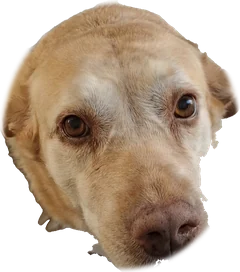
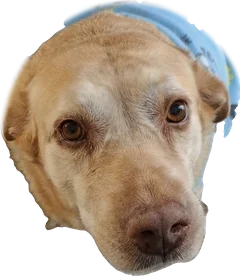
Cursos internos, Princess com ombros, sem título 'O que me move'
Claude-Session: https://claude.ai/code/session_01Y63AkRKadhwfSipCk8BwFY

diff --git a/index.html b/index.html
@@ -862,6 +862,7 @@ button.btn{font-family:inherit;font-size:17px;font-weight:700;cursor:pointer}
 @media (max-width:420px){.marca{font-size:20px;white-space:nowrap;gap:6px}.marca .logo-codigo{width:32px}.menu-abrir{padding:8px 12px}}
 .marca{white-space:nowrap}
 .outro-erro{color:var(--cereja);font-weight:700;margin:8px 0 0;min-height:0}.outro-erro:empty{display:none}
+.info-obs{font-size:15px;line-height:1.4;color:var(--texto-suave);margin:8px 0 0;max-width:34ch}
 @media (prefers-reduced-motion:reduce){html.js .desenhar .rabisco{clip-path:none;transition:none}}
 </style>
 </head>
@@ -1108,14 +1109,14 @@ button.btn{font-family:inherit;font-size:17px;font-weight:700;cursor:pointer}
         <li><strong>Pesquisa</strong><span>Acessibilidade digital e realidade estendida no ensino superior.</span></li>
         <li><strong>Hoje</strong><span>Ajudando pequenos negócios de todo o Brasil com sites, cardápios, materiais e planilhas acessíveis.</span></li>
       </ol></div>
-      <div class="mais-info"><div class="info-grupo"><h3 class="nota">cursos que eu dou</h3><ul class="fitas"><li>criação de sites institucionais</li><li>design acessível</li><li>ferramentas digitais e IA</li><li>atendimento ao público</li></ul></div><div class="info-grupo"><h3 class="nota">projetos</h3><ul class="fitas"><li>XR EduTech · realidade estendida</li><li>biblioteca acessível (FINEP)</li><li>totens acessíveis</li><li>Expandindo Fronteiras Digitais</li></ul></div><div class="info-grupo"><h3 class="nota">experiências</h3><ul class="fitas"><li>tecnologia na Intelbras</li><li>aulas voluntárias de informática</li><li>hackathons</li><li>documentação técnica de projetos</li></ul></div></div>
+      <div class="mais-info"><div class="info-grupo"><h3 class="nota">cursos que já dei</h3><ul class="fitas"><li>criação de sites institucionais</li><li>design acessível</li><li>ferramentas digitais e IA</li><li>atendimento ao público</li></ul><p class="info-obs">Cursos internos, feitos para equipes de instituições. Não são turmas abertas ao público.</p></div><div class="info-grupo"><h3 class="nota">projetos</h3><ul class="fitas"><li>XR EduTech · realidade estendida</li><li>biblioteca acessível (FINEP)</li><li>totens acessíveis</li><li>Expandindo Fronteiras Digitais</li></ul></div><div class="info-grupo"><h3 class="nota">experiências</h3><ul class="fitas"><li>tecnologia na Intelbras</li><li>aulas voluntárias de informática</li><li>hackathons</li><li>documentação técnica de projetos</li></ul></div></div>
       <p class="links-perfil"><a href="https://www.linkedin.com/in/leticia-beatriz015" target="_blank" rel="noopener">Ver meu LinkedIn<svg class="link-seta" viewBox="0 0 16 16" aria-hidden="true" focusable="false"><path d="M5 11 11 5M6 5h5v5" fill="none" stroke="currentColor" stroke-width="2" stroke-linecap="round" stroke-linejoin="round"/></svg><span class="sr-only"> (abre em nova aba)</span></a><a href="https://lattes.cnpq.br/2189030331746865" target="_blank" rel="noopener">Ver meu currículo Lattes<svg class="link-seta" viewBox="0 0 16 16" aria-hidden="true" focusable="false"><path d="M5 11 11 5M6 5h5v5" fill="none" stroke="currentColor" stroke-width="2" stroke-linecap="round" stroke-linejoin="round"/></svg><span class="sr-only"> (abre em nova aba)</span></a></p>
       
     </div>
     <div class="anjos">
         <p>E no caminho todo, eu tive companhia. Esses três já não estão aqui, mas fizeram parte da minha história.</p>
         <ul class="anjos-lista">
-          <li><span class="anjo-real"><img class="foto-liza" src="img/princess-rosto.webp" alt="" width="240" height="272" loading="lazy" decoding="async"><svg class="aureola" viewBox="0 0 100 30" aria-hidden="true" focusable="false"><ellipse cx="50" cy="15" rx="40" ry="9" fill="none" stroke="var(--caramelo)" stroke-width="6" filter="url(#lapis-fita)"/><ellipse cx="50" cy="15" rx="40" ry="9" fill="none" stroke="var(--bordo)" stroke-width="1.6" filter="url(#lapis-fita)"/></svg></span><span class="nota">Princess</span><span class="raca">labradora caramelo</span></li>
+          <li><span class="anjo-real"><img class="foto-liza" src="img/princess-rosto.webp" alt="" width="240" height="276" loading="lazy" decoding="async"><svg class="aureola" viewBox="0 0 100 30" aria-hidden="true" focusable="false"><ellipse cx="50" cy="15" rx="40" ry="9" fill="none" stroke="var(--caramelo)" stroke-width="6" filter="url(#lapis-fita)"/><ellipse cx="50" cy="15" rx="40" ry="9" fill="none" stroke="var(--bordo)" stroke-width="1.6" filter="url(#lapis-fita)"/></svg></span><span class="nota">Princess</span><span class="raca">labradora caramelo</span></li>
           <li><span class="anjo-real"><img class="foto-liza" src="img/scooby-rosto.webp" alt="" width="240" height="242" loading="lazy" decoding="async"><svg class="aureola" viewBox="0 0 100 30" aria-hidden="true" focusable="false"><ellipse cx="50" cy="15" rx="40" ry="9" fill="none" stroke="var(--caramelo)" stroke-width="6" filter="url(#lapis-fita)"/><ellipse cx="50" cy="15" rx="40" ry="9" fill="none" stroke="var(--bordo)" stroke-width="1.6" filter="url(#lapis-fita)"/></svg></span><span class="nota">Scooby</span><span class="raca">labrador chocolate</span></li>
           <li><span class="anjo-real"><img class="foto-liza" src="img/fiona-rosto.webp" alt="" width="240" height="258" loading="lazy" decoding="async"><svg class="aureola" viewBox="0 0 100 30" aria-hidden="true" focusable="false"><ellipse cx="50" cy="15" rx="40" ry="9" fill="none" stroke="var(--caramelo)" stroke-width="6" filter="url(#lapis-fita)"/><ellipse cx="50" cy="15" rx="40" ry="9" fill="none" stroke="var(--bordo)" stroke-width="1.6" filter="url(#lapis-fita)"/></svg></span><span class="nota">Fiona</span><span class="raca">pastora alemã</span></li>
         </ul>
@@ -1126,7 +1127,7 @@ button.btn{font-family:inherit;font-size:17px;font-weight:700;cursor:pointer}
 
 <section class="mvv" id="proposito" aria-labelledby="t-mvv">
   <div class="wrap">
-    <div class="cabeca"><h2 id="t-mvv">O que me move</h2><span class="nota">missão, visão e valores</span><div class="desenhar cab-rabisco"><svg class="doodle rabisco r-flor" viewBox="0 0 141 130" aria-hidden="true" focusable="false"><use href="img/rabiscos.svg#r-flor"/></svg><span class="enfeitinhos " aria-hidden="true"><svg class="mini" viewBox="0 0 83 77" focusable="false"><use href="img/rabiscos.svg#r-estrelinha"/></svg></span></div></div>
+    <div class="cabeca"><h2 id="t-mvv" class="sr-only">Missão, visão e valores</h2><span class="nota" aria-hidden="true">missão, visão e valores</span><div class="desenhar cab-rabisco"><svg class="doodle rabisco r-flor" viewBox="0 0 141 130" aria-hidden="true" focusable="false"><use href="img/rabiscos.svg#r-flor"/></svg><span class="enfeitinhos " aria-hidden="true"><svg class="mini" viewBox="0 0 83 77" focusable="false"><use href="img/rabiscos.svg#r-estrelinha"/></svg></span></div></div>
     <div class="move">
       <h3 class="sr-only">Missão</h3>
       <p class="move-frase">Ajudar pequenos negócios a serem encontrados e entendidos, com sites e materiais que <em>qualquer pessoa</em> consegue usar.</p>
